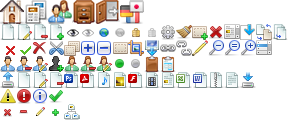
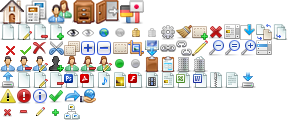
Backporting visit page feature from next_stable

Changed region(s): [[0.5938, 0.475, 0.7188, 0.6], [0.2188, 0.725, 0.3438, 0.875]]

diff --git a/assets/stylesheets/alchemy.css b/assets/stylesheets/alchemy.css
@@ -2246,6 +2246,10 @@ span.icon.settings {
 	background: url(/images/alchemy/icons.png) -160px -24px;
 }
 
+span.icon.visit_page {
+	background: url(/images/alchemy/icons.png) -64px -88px;
+}
+
 span.icon.upload {
 	background: url(/images/alchemy/icons.png) 0 -72px;
 }

diff --git a/app/controllers/admin/pages_controller.rb b/app/controllers/admin/pages_controller.rb
@@ -5,7 +5,7 @@ class Admin::PagesController < AlchemyController
   layout 'alchemy'
   
   before_filter :set_translation, :except => [:show]
-  before_filter :get_page_from_id, :only => [:show, :unlock, :publish, :configure, :edit, :update, :destroy, :fold]
+  before_filter :get_page_from_id, :only => [:show, :unlock, :visit, :publish, :configure, :edit, :update, :destroy, :fold]
   
   filter_access_to [:show, :unlock, :publish, :configure, :edit, :update, :destroy], :attribute_check => true
   filter_access_to [:index, :link, :layoutpages, :new, :switch_language, :create, :fold, :move, :flush], :attribute_check => false
@@ -168,6 +168,11 @@ class Admin::PagesController < AlchemyController
         redirect_to(params[:redirect_to])
       end
     end
+  end
+  
+  def visit
+    @page.unlock
+    redirect_to multi_language? ? show_page_with_language_path(:lang => @page.language_code, :urlname => @page.urlname) : show_page_path(@page.urlname)
   end
   
   # Sweeps the page cache

diff --git a/config/routes.rb b/config/routes.rb
@@ -25,7 +25,8 @@ ActionController::Routing::Routes.draw do |map|
         :publish => :post,
         :unlock => :post,
         :configure => :get,
-        :preview => :get
+        :preview => :get,
+        :visit => :post
       },
       :has_many => [:elements],
       :shallow => true
